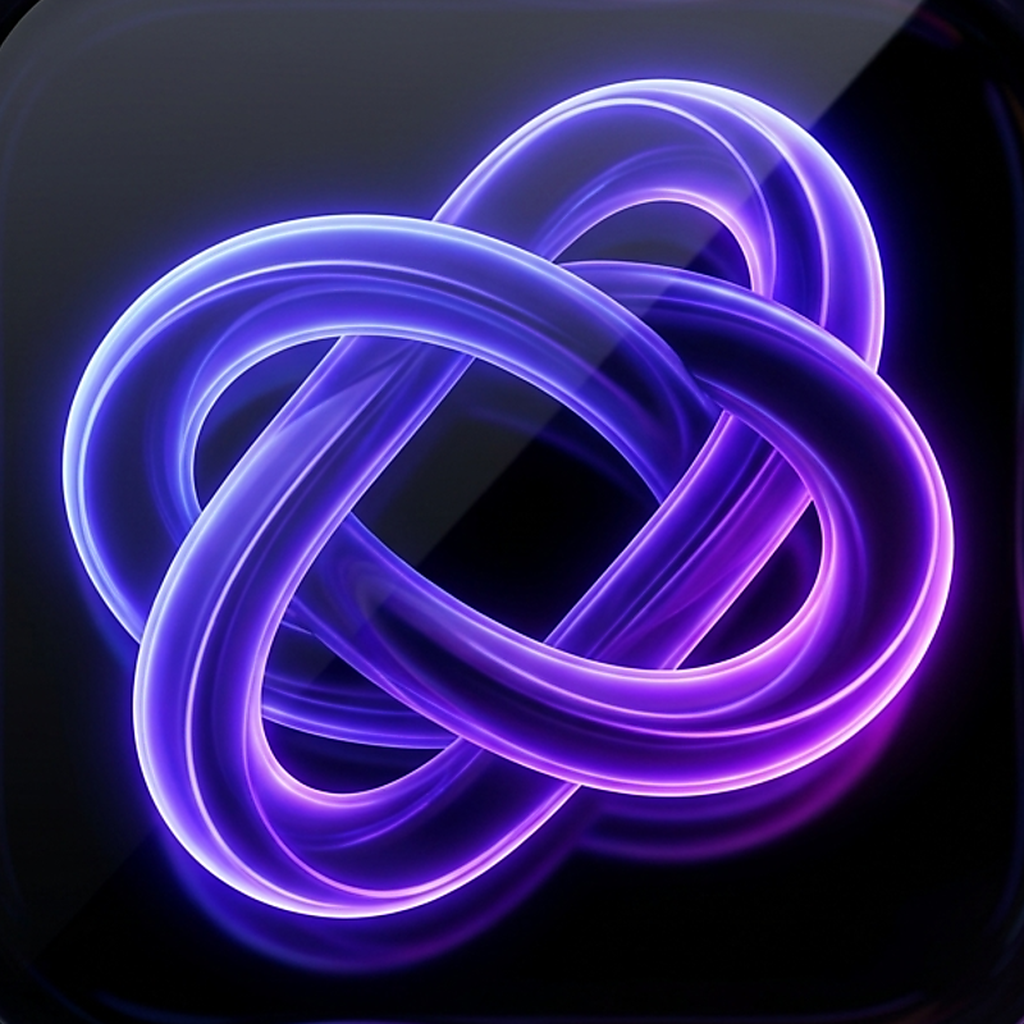
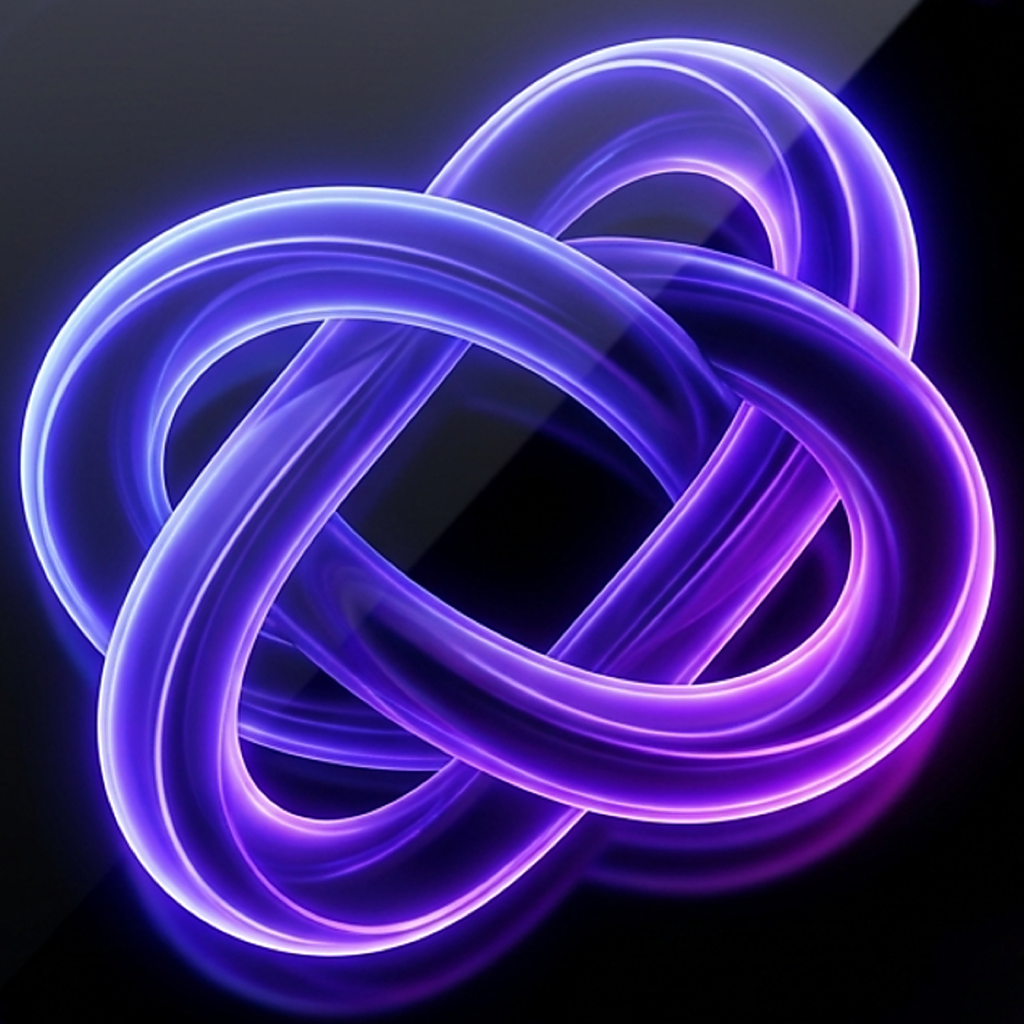
feat(feed): 집중모드 ON일 때만 P옆에 글래스 ⚡ 인디케이터 + iOS 아이콘 풀블리드
- 피드 상단 우측 [⚡][P]: isAutoMode(Focus Session ON)일 때만 P 왼쪽에
  글래스모피즘 번개 인디케이터(BlurView + Feather zap, colors.primary 보라 링).
  OFF면 렌더 안 함 → 영상 안 가림. FadeIn/FadeOut 등퇴장.
- P 버튼은 집중모드와 무관하게 중립 글래스 유지(상태 표시는 ⚡가 전담).
- SessionTimePill("⚡ Focus" 상시 필) 제거 — 사용자 "화면에 뭘 늘리지 마라".
  상시 카운트다운/남은시간은 다이나믹아일랜드(Live Activity)가 담당.
- assets/ios-icon.png: 구워진 둥근모서리 프레임+상단 광택 제거(풀블리드) →
  iOS 이중 마스킹으로 "짤린 것처럼" 보이던 문제 해결. 스케일업+중앙크롭.
- 시뮬레이터(iPhone 17 Pro, com.strides7.pace) 재빌드로 ⚡ 표시 검증 완료.
- 안드로이드 동일 반영용 HANDOFF_FEED_FOCUS_INDICATOR_2026-07-25.md 추가.

diff --git a/src/app/feed/index.tsx b/src/app/feed/index.tsx
@@ -4,8 +4,8 @@ import { useRouter } from 'expo-router';
 import { SafeAreaView, useSafeAreaInsets } from 'react-native-safe-area-context';
 import { BlurView } from 'expo-blur';
 import { Feather } from '@expo/vector-icons';
+import Animated, { FadeIn, FadeOut } from 'react-native-reanimated';
 import { YouTubeShortsPlayer } from '../../components/feed/YouTubeShortsPlayer';
-import { SessionTimePill } from '../../components/feed/SessionTimePill';
 import { useShortsQueueStore } from '../../store/useShortsQueueStore';
 import { useToastStore } from '../../store/useToastStore';
 import { useFeedRemoteControl } from '../../hooks/useFeedRemoteControl';
@@ -250,14 +250,21 @@ export default function PaceFeedScreen() {
           {/* 2026-07-25 사용자 지시: 상단은 영상을 최대한 안 가리게 "앱 복귀 버튼 하나"만 남긴다.
               X(닫기)와 "Pace Feed" 필은 영상 가리는 군더더기라 제거. 우상단 P만 유지 — 탭하면 Pace
               앱(Home)으로 복귀(세션은 백그라운드 유지). 딥링크로 스택이 비어도 replace라 안전. */}
-          <Pressable onPress={() => router.replace('/(tabs)/home')} hitSlop={12} style={styles.appIconBtn}>
+          {/* 피드는 홈 위에 뜬 fullScreenModal — replace로 홈을 새로 그리면 밑의 홈과 겹쳐 "두 번 보임".
+              back()으로 모달을 닫아 밑의 홈을 드러낸다. 딥링크로 스택이 비었을 때만 replace 폴백. */}
+          {/* 집중모드(Focus Session) ON일 때만 P 왼쪽에 글래스 ⚡ 인디케이터(사용자 지시 2026-07-25).
+              OFF면 아예 렌더 안 함 — 영상 안 가리게. 상시 카운트다운/남은시간은 다이나믹아일랜드가 담당. */}
+          {isAutoMode && (
+            <Animated.View entering={FadeIn.duration(260)} exiting={FadeOut.duration(200)} style={styles.focusDot}>
+              <BlurView intensity={24} tint="dark" style={StyleSheet.absoluteFill} />
+              <Feather name="zap" size={15} color={colors.primary} />
+            </Animated.View>
+          )}
+          <Pressable onPress={() => (router.canGoBack() ? router.back() : router.replace('/(tabs)/home'))} hitSlop={12} style={styles.appIconBtn}>
             <BlurView intensity={24} tint="dark" style={StyleSheet.absoluteFill} />
             <Text style={styles.appIconText}>P</Text>
           </Pressable>
         </View>
-
-        {/* 세션 남은시간을 "가끔" 살짝 보여주는 글래스 필(사용자 지시) — 계속 안 뜨고 주기적 페이드인. */}
-        <SessionTimePill endsAt={sessionEndsAt} />
 
         {/* 2026-07-25 사용자 지시: 인앱 "시간 상태바"(벽시계+남은시간)가 iOS 시스템 상태바와 겹쳐 제거.
             시간은 시스템 상태바(시계)와 다이나믹 아일랜드 Live Activity(세션 남은시간)가 이미 담당. */}
@@ -360,6 +367,8 @@ const styles = StyleSheet.create({
   // 우상단 "P" 앱 아이콘(복귀용) — 온보딩/오버레이의 보라 P 배지와 동일 톤(2026-07-21).
   // 글래스모피즘 P(사용자 지시) — solid 보라 대신 프로스티드 글래스 원. 영상을 덜 가리게 반투명.
   appIconBtn: { width: 36, height: 36, borderRadius: radius.pill, overflow: 'hidden', alignItems: 'center', justifyContent: 'center', borderWidth: StyleSheet.hairlineWidth, borderColor: 'rgba(255,255,255,0.22)' },
+  // 집중모드 인디케이터 — P와 같은 36 글래스 원, 은은한 보라 링(colors.primary)으로 "지금 집중 중" 표시.
+  focusDot: { width: 36, height: 36, borderRadius: radius.pill, overflow: 'hidden', alignItems: 'center', justifyContent: 'center', borderWidth: StyleSheet.hairlineWidth, borderColor: `${colors.primary}66` },
   appIconText: { color: 'rgba(255,255,255,0.95)', fontSize: 17, fontFamily: typography.displayFontFamily },
   // 시간 상태바(§1-E.3) — 상단 중앙에 살짝, WebView 재생을 가리지 않게 반투명 필.
   statusBar: { alignItems: 'center', marginTop: spacing.sm },

diff --git a/HANDOFF_FEED_FOCUS_INDICATOR_2026-07-25.md b/HANDOFF_FEED_FOCUS_INDICATOR_2026-07-25.md
@@ -1,0 +1,29 @@
+# Handoff — Feed 상단 UI 정리 & 집중모드 ⚡ 인디케이터 (2026-07-25, iOS 세션)
+
+Android 세션이 **동일하게** 반영해야 하는 변경. iOS는 `src/app/feed/index.tsx`에 적용 완료.
+
+## 배경 (사용자 지시 흐름)
+- "유투브 화면 상단 X는 왜 만들었냐 / 화면 가리지 마라" → 상단은 최소만.
+- "Focus 집중모드 표시는 안 하냐" → 집중모드 ON 표시가 필요.
+- "화면에 자꾸 뭘 늘리지 마라" → 상시 필/텍스트 금지.
+- 최종 결정: **"P 옆에 글래스모피즘 ⚡(번개) 아이콘을 집중모드 ON일 때만" 띄운다. OFF면 아예 렌더 안 함.**
+
+## 정확한 스펙
+1. 피드 상단 우측 = `[⚡] [P]` (오른쪽 정렬, gap = spacing.sm).
+2. **P 버튼**: 항상 표시. 글래스(BlurView intensity 24, tint dark), 36×36 원, hairline 테두리 rgba(255,255,255,0.22). 탭 → 앱(Home) 복귀. 색/모양은 집중모드와 **무관하게 중립 유지**(P 자체는 상태 표시 안 함).
+3. **⚡ 인디케이터**: `isAutoMode`(= Focus Session/자동 정주행 ON)일 때만 렌더. OFF면 컴포넌트 자체를 안 그림.
+   - P와 동일한 36×36 글래스 원(BlurView intensity 24, tint dark, overflow hidden).
+   - 테두리는 보라 링: `borderColor: ${colors.primary}66` (P의 흰 hairline과 구분되는 "집중 중" 시그널).
+   - 아이콘: Feather `zap`, size 15, color `colors.primary`.
+   - 등장/퇴장 애니메이션: reanimated `FadeIn.duration(260)` / `FadeOut.duration(200)`.
+4. **제거된 것**(군더더기): 상단 X(닫기), "Pace Feed" 카테고리 필, 인앱 시간 상태바(시스템 상태바와 겹침), 하단 미디어 컨트롤(skip/play/pause — 동작 안 함), 그리고 이번에 시도했다 폐기한 `SessionTimePill`("⚡ Focus" 상시 필). 상시 카운트다운/남은시간은 iOS는 다이나믹아일랜드(Live Activity)가 담당.
+
+## Android 반영 포인트
+- Android 피드/오버레이에서 "집중모드 ON" 상태에 해당하는 플래그(iOS의 `isAutoMode` = 자동 정주행 스위치)를 찾아 동일 조건으로 ⚡ 인디케이터를 노출.
+- 글래스모피즘: Android는 expo-blur BlurView가 동일 동작(experimentalBlurMethod 필요할 수 있음) — 안 되면 반투명 어두운 배경 + 보라 테두리로 폴백.
+- 상단은 "복귀 버튼 하나 + (ON일 때만)⚡"만. 그 외 상단 오버레이 요소는 영상 안 가리게 최소화.
+- 시스템 상태바 겹침 주의: iOS는 `useSafeAreaInsets().top`(모달에서 0이면 47 폴백)로 topBar marginTop 보정. Android도 상태바 높이만큼 상단 여백 확보.
+
+## 아이콘
+- `assets/ios-icon.png`를 풀블리드(모서리까지 꽉 찬 사각형)로 교체. 기존엔 **둥근 모서리 프레임 + 상단 광택**이 이미지에 구워져 있어 iOS 마스크와 **이중 마스킹** → "짤린 것처럼" 보이고 상단 흰 띠 발생. 스케일업 후 중앙 크롭으로 구워진 프레임 제거.
+- Android adaptiveIcon foreground(`assets/android-icon-foreground.png`)도 세이프존(안쪽 66%) 안에 매듭이 들어오는지 확인 — 넘치면 잘림.
